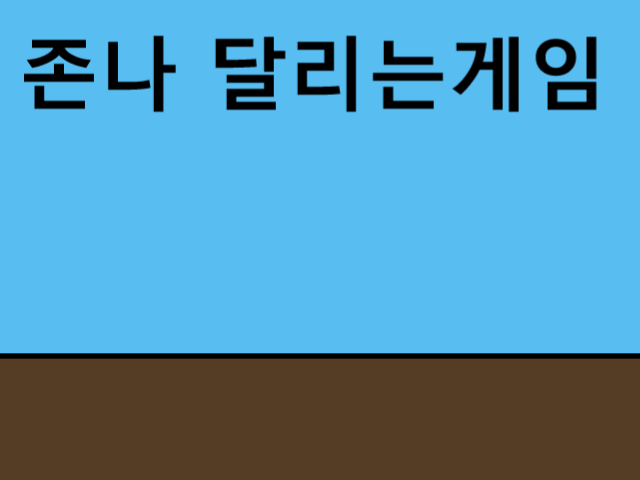
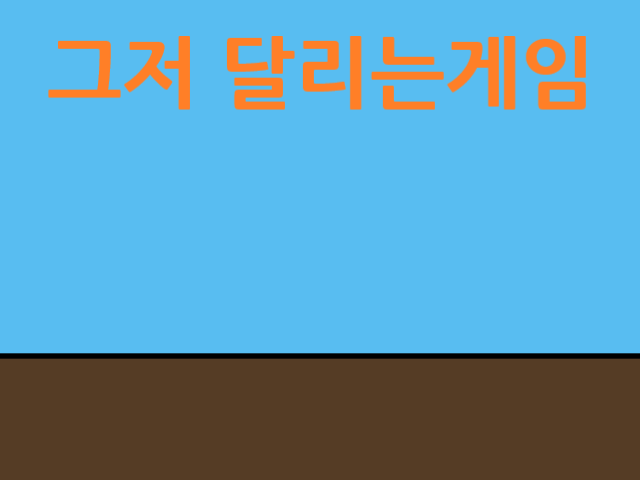
메인화면, 이펙트 적용

Changed region(s): [[0.0312, 0.0625, 0.9375, 0.25]]

diff --git a/MiniProject/TextureManager.cpp b/MiniProject/TextureManager.cpp
@@ -1,6 +1,7 @@
 #include"TextureManager.h"
 #include<SDL_image.h>
 #include<SDL_ttf.h>
+#include<string>
 
 bool TextureManager::Load(std::string fileName, std::string id,
 	SDL_Renderer* pRenderer)
@@ -46,7 +47,33 @@ bool TextureManager::LoadText(const char* fontName, int size, const char* messag
 	return false;
 
 }
+/*
+bool TextureManager::LoadText(const char* fontName, int size, std::string message, std::string id, SDL_Renderer* pRenderer)
+{
+	const char* message_c = message.c_str();
 
+	TTF_Font* font;
+	font = TTF_OpenFont(fontName, size);
+	if (font == NULL)
+		return false;
+
+	SDL_Color color;
+	color.r = 255;
+	color.g = 255;
+	color.b = 255;
+
+	SDL_Surface* pSurface;
+	pSurface = TTF_RenderText_Solid(font, message_c, color);
+	SDL_Texture* text = SDL_CreateTextureFromSurface(pRenderer, pSurface);
+
+	if (text != 0) {
+		m_textureMap[id] = text;
+		return true;
+	}
+	return false;
+
+}
+*/
 void TextureManager::DrawText(std::string id, int x, int y, SDL_Renderer* pRenderer)
 {
 
@@ -56,12 +83,46 @@ void TextureManager::DrawText(std::string id, int x, int y, SDL_Renderer* pRende
 	int h = 0;
 
 	SDL_QueryTexture(m_textureMap[id], NULL, NULL, &w, &h);
-	textRect.x = 0;
-	textRect.y = 0;
+	textRect.x = x;
+	textRect.y = y;
 	textRect.w = w;
 	textRect.h = h;
 
 	SDL_RenderCopy(pRenderer, m_textureMap[id], NULL, &textRect);
+}
+
+bool TextureManager::UpdateAndDrawNumber(int score, int x, int y, SDL_Renderer* pRenderer)
+{
+	TTF_Font* font;
+	font = TTF_OpenFont("assets/NanumGothicExtraBold.ttf", 20);
+	if (font == NULL)
+		return false;
+
+	SDL_Color color;
+	color.r = 255;
+	color.g = 255;
+	color.b = 255;
+
+	std::string s = std::to_string(score);
+	const char* c = s.c_str();
+
+	SDL_Surface* pSurface;
+	pSurface = TTF_RenderText_Solid(font, c, color);
+	SDL_Texture* text = SDL_CreateTextureFromSurface(pRenderer, pSurface);
+	
+	SDL_Rect textRect;
+
+	int w = 0;
+	int h = 0;
+
+	SDL_QueryTexture(text, NULL, NULL, &w, &h);
+	textRect.x = x;
+	textRect.y = y;
+	textRect.w = w;
+	textRect.h = h;
+
+	SDL_RenderCopy(pRenderer, text, NULL, &textRect);
+
 }
 
 

diff --git a/MiniProject/MenuState.cpp b/MiniProject/MenuState.cpp
@@ -18,12 +18,12 @@ void MenuState::Render()
 
 bool MenuState::onEnter()
 {
-	if (!TheTextureManager::Instance()->Load("assets/button.png",
-		"playbutton", TheGame::Instance()->getRenderer()))
+	if (!TheTextureManager::Instance()->Load("assets/run.png",
+		"runbutton", TheGame::Instance()->getRenderer()))
 	{
 		return false;
 	}
-	if (!TheTextureManager::Instance()->Load("assets/exit.png",
+	if (!TheTextureManager::Instance()->Load("assets/exit2.png",
 		"exitbutton", TheGame::Instance()->getRenderer()))
 	{
 		return false;
@@ -34,11 +34,11 @@ bool MenuState::onEnter()
 		return false;
 	}
 	GameObject* button1 = new MenuButton(
-		new LoaderParams(100, 100, 400, 100, "playbutton"),
+		new LoaderParams(140, 200, 343, 105, "runbutton"),
 		s_menuToPlay);
 
 	GameObject* button2 = new MenuButton(
-		new LoaderParams(100, 300, 400, 100, "exitbutton"),
+		new LoaderParams(140, 340, 343, 105, "exitbutton"),
 		s_exitFromMenu);
 	GameObject* title = new SDLGameObject(
 		new LoaderParams(0, 0, 640, 480, "title"));

diff --git a/MiniProject/GameOverState.cpp b/MiniProject/GameOverState.cpp
@@ -48,6 +48,11 @@ bool GameOverState::onEnter()
 	{
 		return false;
 	}
+	if (!TheTextureManager::Instance()->Load("assets/background1.png",
+		"background", TheGame::Instance()->getRenderer()))
+	{
+		return false;
+	}
 	GameObject* gameOverText = new AnimatedGraphic(
 		new  LoaderParams(200, 100, 190, 30, "gameovertext"), 2, 2);
 
@@ -58,7 +63,10 @@ bool GameOverState::onEnter()
 	GameObject* button2 = new MenuButton(
 		new LoaderParams(200, 300, 200, 80, "restartbutton"),
 		s_restartPlay);
+	GameObject* bg = new SDLGameObject(
+		new LoaderParams(0, 0, 640, 480, "background"));
 
+	m_gameObjects.push_back(bg);
 	m_gameObjects.push_back(gameOverText);
 	m_gameObjects.push_back(button1);
 	m_gameObjects.push_back(button2);

diff --git a/MiniProject/Barrier.cpp b/MiniProject/Barrier.cpp
@@ -9,8 +9,10 @@ Barrier::Barrier(const LoaderParams* pParams) : SDLGameObject(pParams)
 
 void Barrier::Update()
 {
-	if (PlayState::Instance()->getplayTime() >= 30)
+	if (PlayState::Instance()->getplayTime() >= 30 && PlayState::Instance()->getplayTime() < 60)
 		m_velocity.setX(-8);
+	else if (PlayState::Instance()->getplayTime() >= 60)
+		m_velocity.setX(-12);
 	SDLGameObject::Update();
 }
 
@@ -24,4 +26,12 @@ void Barrier::Draw()
 void Barrier::Clean()
 {
 	SDLGameObject::Clean();
+}
+int Barrier::getWidth()
+{
+	return SDLGameObject::getWidth();
+}
+int Barrier::getX()
+{
+	return SDLGameObject::getX();
 }

diff --git a/MiniProject/GameState.cpp b/MiniProject/GameState.cpp
@@ -6,6 +6,10 @@ void GameState::Update()
 	{
 		m_gameObjects[i]->Update();
 	}
+	for (int i = 0; i < m_SDLObjects.size(); i++)
+	{
+		m_SDLObjects[i]->Update();
+	}
 
 }
 
@@ -15,7 +19,10 @@ void GameState::Render()
 	{
 		m_gameObjects[i]->Draw();
 	}
-
+	for (int i = 0; i < m_SDLObjects.size(); i++)
+	{
+		m_SDLObjects[i]->Draw();
+	}
 }
 
 bool GameState::onExit()
@@ -24,6 +31,11 @@ bool GameState::onExit()
 	{
 		m_gameObjects[i]->Clean();
 	}
+	for (int i = 0; i < m_SDLObjects.size(); i++)
+	{
+		m_SDLObjects[i]->Clean();
+	}
 	m_gameObjects.clear();
+	m_SDLObjects.clear();
 	return true;
 }

diff --git a/MiniProject/TextureManager.h b/MiniProject/TextureManager.h
@@ -20,7 +20,9 @@ public:
 	void clearFromTextureMap(std::string id);
 
 	bool LoadText(const char* fontName, int size, const char* message, std::string id, SDL_Renderer* pRenderer);
+	//bool LoadText(const char* fontName, int size, std::string message, std::string id, SDL_Renderer* pRenderer);
 	void DrawText(std::string id, int x, int y, SDL_Renderer* pRenderer);
+	bool UpdateAndDrawNumber(int score, int x, int y, SDL_Renderer* pRenderer);
 	static TextureManager* Instance()
 	{
 		static TextureManager* s_pInstance;

diff --git a/MiniProject/Player.cpp b/MiniProject/Player.cpp
@@ -6,7 +6,7 @@ Player::Player(const LoaderParams* pParams) : SDLGameObject(pParams)
 {
 	isJumping = false;
 	isTop = false;
-	originY = pParams->getY();
+	originY = 260;
 }
 void Player::Draw()
 {
@@ -67,4 +67,13 @@ void Player::handleInput()
 		isJumping = true;
 	}
 
+}
+
+int Player::getX()
+{
+	return SDLGameObject::getX();
+}
+int Player::getY()
+{
+	return SDLGameObject::getY();
 }

diff --git a/MiniProject/SDLGameObject.h b/MiniProject/SDLGameObject.h
@@ -14,8 +14,12 @@ public:
 	virtual Vector2D getVelocity();
 	virtual void setVelocity_X(int x);
 	virtual void setVelocity_Y(int y);
-	int getWidth();
-	int getHeight();
+	virtual int getX();
+	virtual int getY();
+	virtual int getWidth();
+	virtual int getHeight();
+	void setX(int x);
+	void setY(int y);
 protected:
 	int m_width;
 	int m_height;

diff --git a/MiniProject/Background.cpp b/MiniProject/Background.cpp
@@ -30,8 +30,10 @@ void Background::Update()
 		
 	}
 
-	if (PlayState::Instance()->getplayTime() >= 30)
+	if (PlayState::Instance()->getplayTime() >= 30 && PlayState::Instance()->getplayTime() < 60)
 		m_velocity.setX(-8);
+	else if (PlayState::Instance()->getplayTime() >= 60)
+		m_velocity.setX(-12);
 	SDLGameObject::Update();
 
 }

diff --git a/MiniProject/PlayState.h b/MiniProject/PlayState.h
@@ -29,7 +29,12 @@ private:
 	static PlayState* s_pInstance;
 	int shotCooltime = 0;
 	int spawnCooltime = 200;
+	int beginTick;
 	int playTime;
+	int score = 0;
+	bool scoreCheck1 = false;
+	bool scoreCheck2 = false;
+	bool fireOn = false;
 	PlayState(){}
 	~PlayState(){}
 	std::vector<GameObject*> bullets;

diff --git a/MiniProject/GameState.h b/MiniProject/GameState.h
@@ -2,11 +2,14 @@
 #include <string>
 #include <vector>
 #include"GameObject.h"
+#include"SDLGameObject.h"
 
 class GameState
 {
 protected:
 	std::vector<GameObject*> m_gameObjects;
+	std::vector<SDLGameObject*> m_SDLObjects;
+	int resetCount = 0;
 public:
 	virtual void Update();
 	virtual void Render();
